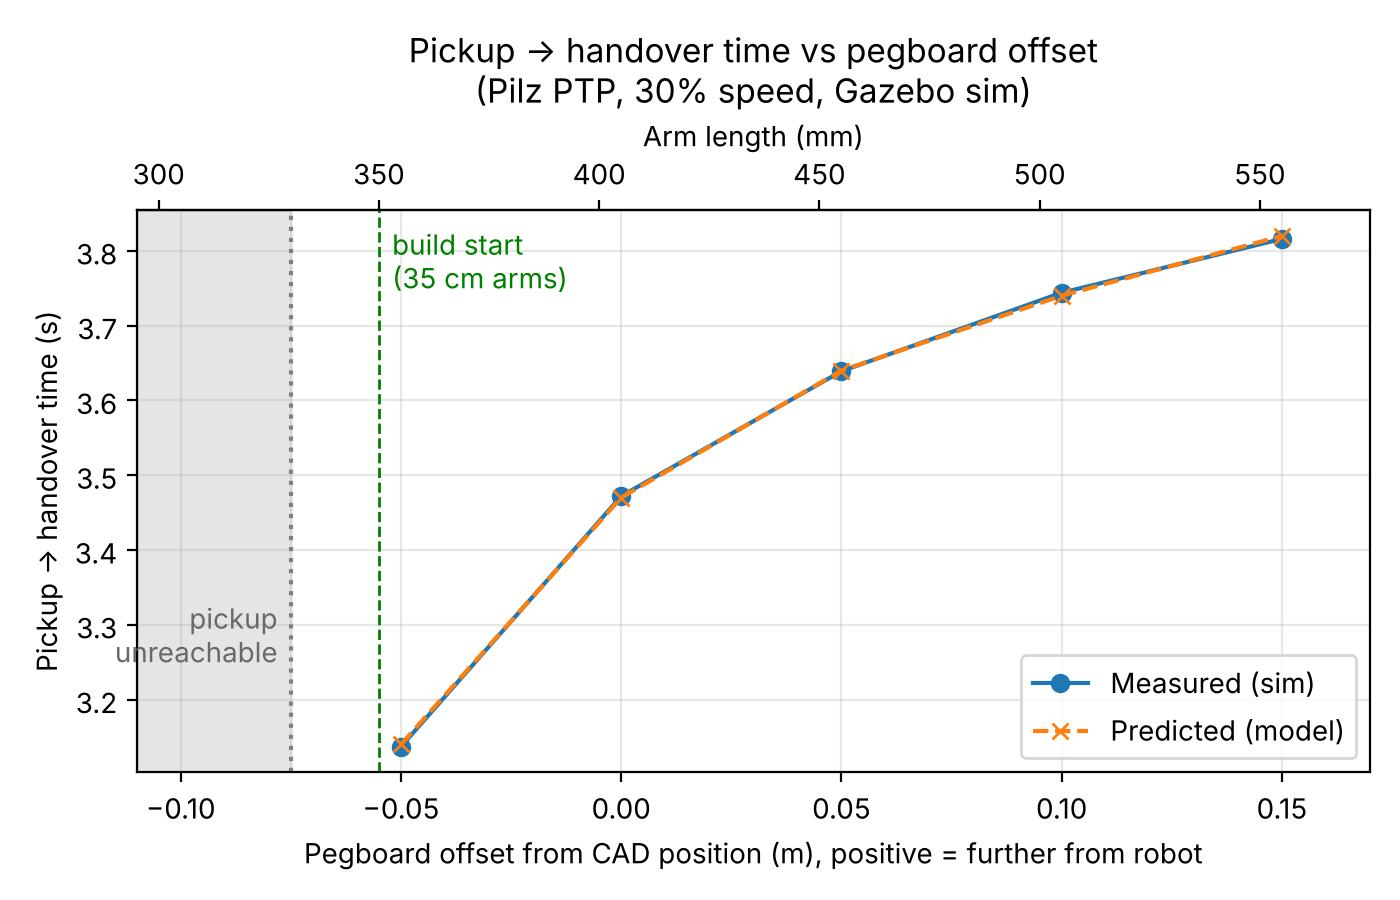
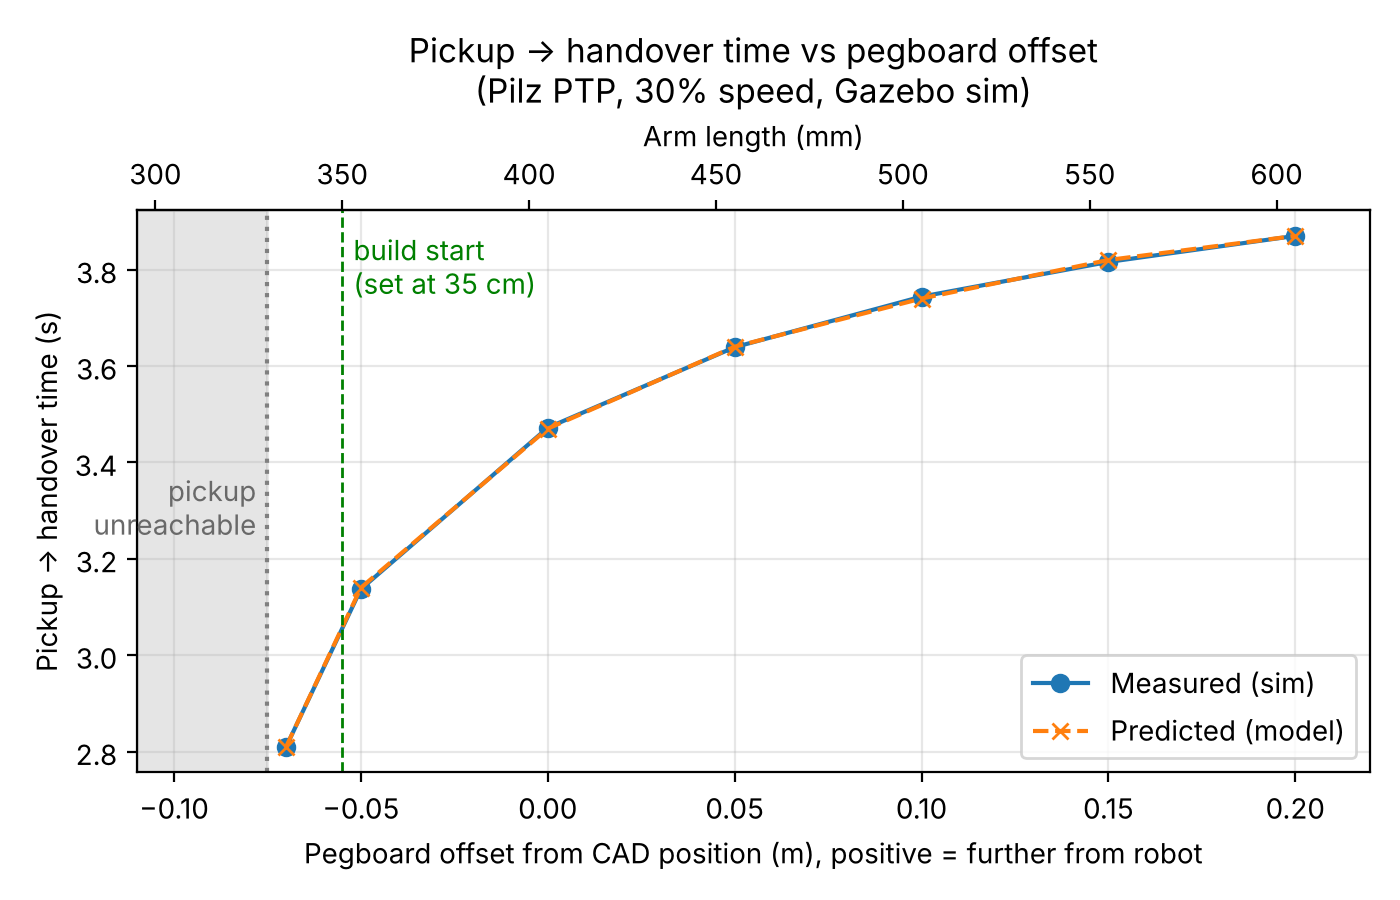
Tool rack: add -0.07/+0.20 results, long-arm wording, 3/16" board, design README

diff --git a/Engineering_Portfolio/tool-rack/06_experiments/pegboard-distance/plot_times.py b/Engineering_Portfolio/tool-rack/06_experiments/pegboard-distance/plot_times.py
@@ -1,7 +1,7 @@
-"""Plot pickup -> handover time against pegboard offset (exp-001).
+"""Plot pickup -> handover time against pegboard offset (pegboard distance study).
 
-Reads the raw study data from cycle_times.csv at the repo root and saves
-time_vs_offset.png next to this script. Run from anywhere:
+Reads the study data from cycle_times.csv in this folder and saves
+time_vs_offset.png next to it. Run from anywhere:
 
     python3 plot_times.py
 """
@@ -15,10 +15,11 @@ CSV = HERE / "cycle_times.csv"
 OUT = HERE / "time_vs_offset.png"
 
 # Predicted handover times (s) from the PTP timing model, made before the runs.
-PREDICTED = {-0.05: 3.14, 0.00: 3.47, 0.05: 3.64, 0.10: 3.74, 0.15: 3.82}
+PREDICTED = {-0.07: 2.81, -0.05: 3.14, 0.00: 3.47, 0.05: 3.64, 0.10: 3.74,
+             0.15: 3.82, 0.20: 3.87}
 REACH_LIMIT = -0.075   # m, set by the UR5e wrist offset (d4 = 0.133 m)
 CAD_ARM_MM = 405       # arm length at offset 0 in the CAD
-START = -0.055         # m, chosen start position (35 cm arms)
+START = -0.055         # m, chosen start position (board set at 35 cm)
 
 # Measured handover times: successful 'handover' rows only
 measured = {}
@@ -36,9 +37,9 @@ ax.axvspan(-0.11, REACH_LIMIT, color="grey", alpha=0.2)
 ax.axvline(REACH_LIMIT, color="grey", linestyle=":")
 ax.text(REACH_LIMIT - 0.003, 3.25, "pickup\nunreachable", ha="right", color="dimgrey")
 ax.axvline(START, color="green", linestyle="--", linewidth=1)
-ax.text(START + 0.003, 3.75, "build start\n(35 cm arms)", color="green")
+ax.text(START + 0.003, 3.75, "build start\n(set at 35 cm)", color="green")
 
-ax.set_xlim(-0.11, 0.17)
+ax.set_xlim(-0.11, 0.22)
 ax.set_xlabel("Pegboard offset from CAD position (m), positive = further from robot")
 ax.set_ylabel("Pickup → handover time (s)")
 ax.set_title("Pickup → handover time vs pegboard offset\n(Pilz PTP, 30% speed, Gazebo sim)")

diff --git a/Engineering_Portfolio/tool-rack/06_experiments/pegboard-distance/README.md b/Engineering_Portfolio/tool-rack/06_experiments/pegboard-distance/README.md
@@ -9,9 +9,9 @@ How does the pegboard's distance from the robot change the pickup to handover ti
 
 Pilz PTP times each move by the joint that turns furthest, using a trapezoidal velocity profile at 30% of the joint limits. Worked calculation: [PTP timing worksheet](../../03_calculations/ptp_timing_prediction.pdf).
 
-| Offset (m) | −0.05 | 0 | +0.05 | +0.10 | +0.15 |
+| Offset (m) | -0.07 | −0.05 | 0 | +0.05 | +0.10 | +0.15 | +0.20 |
 |---|---|---|---|---|---|
-| Predicted (s) | 3.14 | 3.47 | 3.64 | 3.74 | 3.82 |
+| Predicted (s) | 2.81 | 3.14 | 3.47 | 3.64 | 3.74 | 3.82 | 3.87 |
 
 ## Method
 
@@ -23,28 +23,27 @@ Pilz PTP times each move by the joint that turns furthest, using a trapezoidal v
 - **Script:** [`handover_demo.py`](https://github.com/KoaSchuette/HandoverCapstone/blob/9269faa/src/handover_cell/scripts/handover_demo.py) sends three joint goals (pickup → handover → return) with Pilz PTP at 30% speed, executes each, and logs the time and the slowest joint to a CSV.
 - **Pickup pose:** tool 20 cm in front of the board centre, facing it. Joint angles for each offset came from an offline IK model and were checked in the sim with `tf2_echo pegboard_face tool0`, which reads (0, −0.200, 0).
 - **Handover pose:** fixed for every offset (joint values in the script).
-- **Offsets:** −0.10 to +0.15 m in 5 cm steps, plus attempts at −0.07 and +0.20 m. Runs on Oct 27; re-run on Oct 28 with the return leg added.
+- **Offsets:** −0.10 to +0.20 m in 5 cm steps, plus attempts at −0.07 showing that is almost limit. Runs on Oct 27; re-run on Nov 11 with the return leg added.
 
 ## Results
 
 | Offset (m) | Arm length | Handover (s) | Return (s) | Slowest joint |
 |---|---|---|---|---|
 | −0.10 | 305 mm | unreachable | | |
-| −0.07 | 335 mm | re-run planned | | |
+| −0.07 | 335 mm | 2.81 | 2.81 | shoulder pan, 117.7° |
 | −0.05 | 355 mm | 3.137 | 3.137 | shoulder pan, 135.5° |
 | 0 | 405 mm | 3.472 | 3.472 | shoulder pan, 153.6° |
 | +0.05 | 455 mm | 3.639 | 3.639 | shoulder pan, 162.6° |
 | +0.10 | 505 mm | 3.744 | 3.743 | shoulder pan, 168.2° |
 | +0.15 | 555 mm | 3.816 | 3.816 | shoulder pan, 172.2° |
-| +0.20 | 605 mm | re-run planned | | |
+| +0.20 | 605 mm | 3.870 | 3.870 | shoulder pan, 175.0° |
 
-Data: [`cycle_times.csv`](cycle_times.csv), cleaned from the raw log: pickup-leg rows removed, and the speed scale (0.3) and planner (PTP) columns dropped because they were the same for every run. The raw log is kept in the repo history at [commit `9269faa`](https://github.com/KoaSchuette/HandoverCapstone/blob/9269faa/cycle_times.csv).
+Data: [`cycle_times.csv`](cycle_times.csv)
 
 - **Every measured time is within 0.005 s of the prediction.** The timing model fully explains the result: a closer board means less base rotation to reach the operator.
 - **Return = handover** at every offset. PTP time depends only on how far each joint turns, which is the same in both directions. That's a sanity check that passed.
 - **Per tool delivered and returned,** the moves take 6.27 s at −0.05 m and 7.63 s at +0.15 m. Moving 20 cm costs 1.36 s per tool.
-- **The gain shrinks with distance:** 0.34, 0.17, 0.11 and 0.07 s per 5 cm step.
-- **−0.07 and +0.20 m are still to be tested.** The first attempt stopped before planning, because the script had no pickup angles for these offsets. A re-run with angles added is planned.
+- **The gain shrinks with distance:** and is steepest near the reach limit: 0.33 s from −0.07 to −0.05, then 0.34, 0.17, 0.11, 0.07 and 0.05 s per step.
 
 ## The reach limit
 
@@ -56,13 +55,16 @@ Closer than about **−0.075 m**, the pickup pose is impossible. The UR5e's wris
 
 Confirmed in the sim at −0.10 m: a direct IK request returned error −31 (no solution). The pickup angles also show the limit coming. The base angle changes 3.9°, 5.7°, 9.0° and then 18.1° per 5 cm step as the board moves closer, and joints moving faster and faster for the same tool movement is the signature of an approaching singularity.
 
+ ![Pickup at −0.07 m](pickup_-0.07.png)
+ *Pickup at −0.07 m: the arm is folded almost back on itself, with the wrist 5 mm outside the reach limit. The sim arm has no gripper or camera, so the real clearance would be smaller.*
+
 ## What didn't match: the first prediction
 
 An earlier, rougher model assumed full speed, a 15 cm pickup standoff and a different handover pose. It predicted that **−0.10 m would be fastest** and that **wrist 2** would be the slowest joint. Both were wrong: −0.10 m is past the reach limit, and with the real handover pose the base rotation dominates. Rebuilding the model with the actual poses and speed is what made the second prediction accurate.
 
 ## Limitations
 
-- **5 cm steps.** Nothing was tested between −0.05 m and the −0.075 m limit, and the 35 cm build start (−0.055 m) falls in that gap.
+- **Coarse steps near the limit.** The tested points closest to the limit are −0.05 and −0.07 m; the 35 cm build start (−0.055 m) falls between them.
 - **One pickup standoff (20 cm).** The reach limit depends on it; a different camera observation pose would move the limit.
 - **Sim only, one planner, 30% speed.** The times don't convert directly to 100%, because the acceleration ramps don't scale linearly. Payload isn't modelled.
 - **The offset setting isn't in the repo yet.** The `PEGBOARD_OFFSET` change that moves the board in the model was used for these runs but hasn't been pushed, so the study can't be reproduced from the repo until it is.
@@ -73,7 +75,7 @@ Start the arms at 35 cm, the fastest region with about 2 cm of margin to the rea
 
 ## Looking back
 
-The pickup angles were a hand-made table, one row per offset. That was simple to build, but it's why −0.07 and +0.20 m couldn't be run. Defining the pickup as a pose relative to the board, and letting MoveIt solve the angles, would have let us test any offset, including finer steps near the limit. We'd also push the offset code together with the data, so the study can be reproduced from the repo.
+The pickup angles were a hand-made table, one row per offset. Defining the pickup as a pose relative to the board, and letting MoveIt solve the angles, would have let us test any offset, including finer steps near the limit. We'd also push the offset code together with the data, so the study can be reproduced from the repo.
 
 ## Files
 

diff --git a/Engineering_Portfolio/tool-rack/README.md b/Engineering_Portfolio/tool-rack/README.md
@@ -9,7 +9,7 @@ The tool rack holds the three screwdrivers at fixed, known positions so the UR5e
 
 - **R4**: three distinct tools, each with its own fixed slot.
 - **R5**: correct tool picked up in ≥ 96% of attempts. Fixed slots mean the arm goes to a known pose, and the camera only confirms which tool is there.
-- **R1**: delivery and return each ≤ 15 s. Board distance affects pickup → handover time; see [exp-001](../simulation/06_experiments/exp-001-pegboard-distance/).
+- **R1**: delivery and return each ≤ 15 s. Board distance affects pickup → handover time; see [exp-001](../simulation/06_experiments/pegboard-distance/).
 
 ## What's in this folder
 
@@ -18,18 +18,18 @@ The tool rack holds the three screwdrivers at fixed, known positions so the UR5e
 | [`02_decisions/`](02_decisions/) | [Pegboard](02_decisions/pegboard.md) · [Fixed position](02_decisions/fixed-position.md) · [Frame and brackets](02_decisions/frame-and-brackets.md) · [Adjustable arms](02_decisions/adjustable-arms.md) |
 | [`03_calculations/`](03_calculations/) | Reach check and arm-length worksheets |
 | [`04_design/`](04_design/) | Key dimensions, interfaces, CAD (STEP + Onshape), BOM |
-| [`06_experiments/build-log/`](06_experiments/build-log/) | Build status, photos and notes |
-| [`09_figures/`](09_figures/) | CAD renders and drawings used in this section |
+| [`06_experiments/`](06_experiments/pegboard-distance) | Expirements run for calculations |
+| Code | [`src/handover_cell/`](../../src/handover_cell/): cell model with the pegboard frame and the `pegboard_face` frame the robot targets; [`handover_demo.py`](../../src/handover_cell/scripts/handover_demo.py): the script that ran the distance study |
 
 ## Open issues
 
-- **Reach margin.** The arms start at 35 cm, the fastest position in exp-001. The sim reached the board at −0.05 m but not at −0.07 m, which leaves about 2 cm of margin, and that study didn't move the board in the collision model. Re-check in the sim before final cuts.
-- **The CAD doesn't match the build.** The CAD uses 45 mm uprights and 405 mm arms; the build uses 30 mm extrusion, custom brackets and 35 cm arms. Update the CAD and the sim meshes once the frame is built.
+- **Reach margin.** The arms start at 35 cm, the fastest position in exp-001. The sim reached the board at −0.05 m. -0.07 m was tested and works, but the arm is folded almost back on itself there, and the sim has no gripper or camera on the wrist. Re-check in the sim before final cuts.
+- **The CAD doesn't match the build.** The CAD uses 45 mm uprights and 405 mm arms; the build uses 30 mm extrusion, custom brackets, and longer arms set at 35 cm until the final length is chosen. Update the CAD and the sim meshes once the frame is built.
 - **The fabrication milestone slipped** from Oct 30. We waited for the ordered parts to arrive so we could confirm the build before starting any 3D prints. The brackets join two different extrusion sizes, so printing them early risked reprinting if the parts didn’t match the CAD. The hooks and brackets are printed once the frame parts are in.
 
 ## Next steps
 
-1. Finish the brackets and assemble the frame at 35 cm.
+1. Finish the brackets and assemble the frame with the board at 35 cm.
 2. 3D print the hooks and fix the slot positions.
 3. Measure the as-built position against the CAD.
-4. Adjust the arm length if the camera needs a different view of the tools, then lock it.
+4. Adjust the arm length if the camera needs a different view of the tools, then cut the arms to that length.

diff --git a/Engineering_Portfolio/tool-rack/02_decisions/adjustable-arms.md b/Engineering_Portfolio/tool-rack/02_decisions/adjustable-arms.md
@@ -2,7 +2,7 @@
 
 ## Decision
 
-Cut the two frame arms that connect the pegboard uprights to the cart to **35 cm**, and join them so they can slide along the extrusion. This puts the board about 5 cm closer to the robot than the CAD position (40.5 cm arms). The arms stay adjustable until the camera has been shown to detect the screwdrivers reliably from the observation pose. After that, the position is locked.
+Leave the two frame arms that connect the pegboard uprights to the cart uncut and longer than needed, and clamp the uprights along them so the board can slide toward or away from the robot. Start at 35 cm, the fastest position in the distance study, about 5.5 cm closer than the CAD position (40.5 cm arms). Once the camera has been shown to detect the screwdrivers reliably from the observation pose, cut the arms to the chosen length.
 
 ## Why the distance matters
 
@@ -10,9 +10,9 @@ Board distance changes how far the arm has to swing between picking up a tool an
 
 | Board offset from CAD (m) | −0.07 | −0.05 | 0 (CAD) | +0.05 | +0.10 | +0.15 |
 |---|---|---|---|---|---|---|
-| Pickup → handover (s) | unreachable | **3.14** | 3.47 | 3.64 | 3.74 | 3.82 |
+| Pickup → handover (s) | 2.81 | **3.14** | 3.47 | 3.64 | 3.74 | 3.82 |
 
-Moving 5 cm closer saved 0.34 s (about 10%), the largest gain of any step. Going 2 cm further made the pickup unreachable.
+Moving 5 cm closer saved 0.34 s (about 10%), the largest gain of any step. Going 2 cm further was still faster, but the arm was close to hitting singularity as seen in [Pickup at −0.07 m](../06_experiments/pegboard-distance/pickup_-0.07.png).
 
 ## Options considered
 
@@ -43,7 +43,7 @@ Either one could force the board back out. Making the arms adjustable costs noth
 - **Real robot:** time pickup → handover at 35 cm, then at the CAD position, to confirm the sim's trend.
 - **Camera:** confirm all three screwdrivers are detected from the observation pose at 35 cm.
 
-Lock the position once all three pass.
+Once all three pass, cut the arms to that length.
 
 ## Looking back
 

diff --git a/Engineering_Portfolio/tool-rack/04_design/README.md b/Engineering_Portfolio/tool-rack/04_design/README.md
@@ -1,0 +1,27 @@
+# Tool rack design
+
+![Tool rack CAD](../09_figures/tool_rack_cad.PNG)
+*Tool rack CAD (45 mm extrusion, 405 mm arms). A dimensioned drawing will be added once the CAD is updated to the as-built frame.*
+
+The CAD shows 45 mm Vention extrusion and 405 mm arms. The build uses 30 mm extrusion, custom brackets and 35 cm arms (see [frame and brackets](../02_decisions/frame-and-brackets.md) and [adjustable arms](../02_decisions/adjustable-arms.md)).
+
+## Board position in the robot's frame
+
+The robot's tool targets are defined relative to the `pegboard_face` frame in [`handover_cell`](../../../src/handover_cell/): the centre of the board's front face, at (0.005, 0.508, 1.068) m in the CAD. With the arms set at 35 cm, the board is about 55 mm closer to the robot (y ≈ 0.453 m). If the board moves, this frame has to be updated to match, using the `PEGBOARD_OFFSET` setting.
+
+Frame: origin on the floor under the robot plate, +X right, +Y toward the pegboard, +Z up.
+
+## Interfaces
+
+| Connects to | What has to match |
+|---|---|
+| Robot cart | 30 mm arms clamp into the cart’s 45 mm extrusion through custom angle brackets; the uprights slide along the arms until the position is final |
+| End effector | Each tool hangs with its steel end exposed for the electromagnet (25 mm face radius) |
+| Eye-in-hand camera | The whole board must be in view from the observation pose; the camera is in focus from about 0.25 m |
+
+## Files
+
+| File | What it is |
+|---|---|
+| `Capstone Assembly Actual.step` | Full cell CAD (Fusion export, mm) |
+| [`BOM.md`](BOM.md) | Rack parts, suppliers and costs |

diff --git a/Engineering_Portfolio/tool-rack/04_design/BOM.md b/Engineering_Portfolio/tool-rack/04_design/BOM.md
@@ -7,7 +7,7 @@ Snapshot of the rack parts from the team's Parts Ordering sheet (Running BOM), a
 | # | Part | Part number | Supplier | Qty | Unit | Total | Funded by | Status |
 |---|---|---|---|---|---|---|---|---|
 | 11 | Aluminium extrusion, 30 mm, 10 ft | [5537T97](https://www.mcmaster.com/5537T97/) | McMaster-Carr | 2 | $74.57 | $149.14 | Team | Received |
-| 12 | Pegboard, 2' × 4', cut to 400 × 300 mm | SKU 1000432702 | Home Depot | 1 | $13.77 | $13.77 | Team | Received |
+| 12 | Perforated hardboard panel, 3/16" × 2' × 4', cut to 400 × 300 mm| SKU 1000432702 | Home Depot | 1 | $13.77 | $13.77 | Team | Received |
 | 13 | Feet / stoppers | [5537T983](https://www.mcmaster.com/5537T983/) | McMaster-Carr | 2 | $10.67 | $21.34 | Team | Received |
 | 14 | 30 mm M6 self-aligning nut, 4-pack | [6000N207](https://www.mcmaster.com/6000N207/) | McMaster-Carr | 7 | $7.68 | $53.76 | Team | Partly received |
 | 15 | 45 mm M6 self-aligning nut, 4-pack | [5278N32](https://www.mcmaster.com/5278N32/) | McMaster-Carr | 1 | — | — | Ingenuity Labs | Received |

diff --git a/Engineering_Portfolio/tool-rack/02_decisions/pegboard.md b/Engineering_Portfolio/tool-rack/02_decisions/pegboard.md
@@ -2,7 +2,7 @@
 
 ## Decision
 
-Use a standard 1/4" hardboard pegboard, cut to 400 × 300 mm, with 3D-printed hooks to hold the three screwdrivers, rather than a custom-built rack.
+Use a 3/16” perforated hardboard panel, cut to 400 × 300 mm, with 3D-printed hooks to hold the three screwdrivers, rather than a custom-built rack.
 
 ## Context
 
